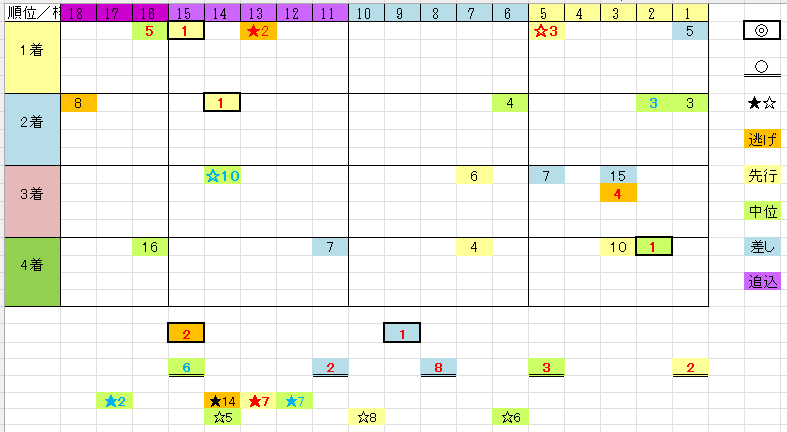
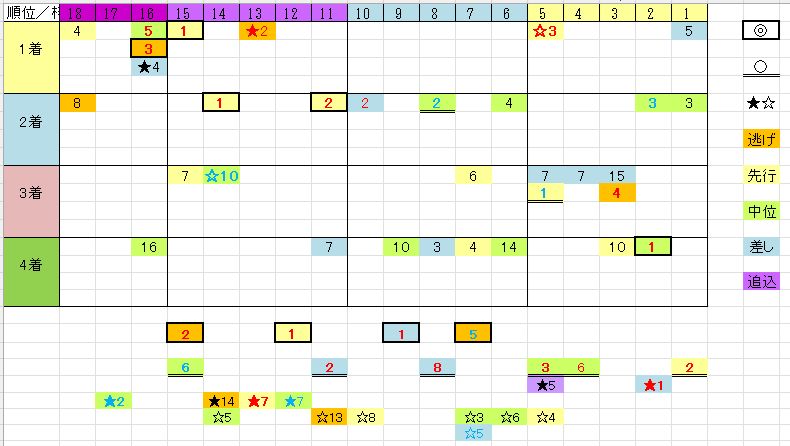
20261119update

Changed region(s): [[0.0, 0.0, 1.0, 1.0], [0.061, 0.7824, 0.0915, 0.8727], [0.0, 0.7824, 0.0305, 0.8727]]

diff --git a/posts/gamble/2026-11-22-0001.md b/posts/gamble/2026-11-22-0001.md
@@ -8,19 +8,21 @@ category: "ギャンブル"
 ##マイルCS　展望
 
 <p><a href="../../images/20261122.png"><img src="../../images/20261122.png" border="0" /></a></p>
-<p>※データは仮版2018年,2019年,2023～2025年（計５回）</p>
+<p>※データは2015～2019年,2023～2025年（計９回）</p>
 <p>　</p>
 <p>●人気から見る傾向</p>
 <p>・１、２番人気の取りこぼしがある</p>
 <p>　</p>
 <p>●脚質傾向</p>
-<p>・内枠差しが穴</p>
+<p>・内差し、外の逃げ先が穴</p>
 <p>　</p>
 <p>●前走</p>
 <p>・富士S、毎日王冠の連対馬</p>
 <p>　</p>
 <p>●その他</p>
-<p>・リピーターは侮れない</p>
+<p>・格はG1連対相当（≒G2勝利を含む）がメイン</p>
+<p>・前走重賞勝ち（東西、ローカルを問わない）</p>
+<p>・リピーターは侮れないけれど</p>
 <p>　</p>
 
 * [-Hyper-Link to this SITE MAP-](../../sitemap.html)
